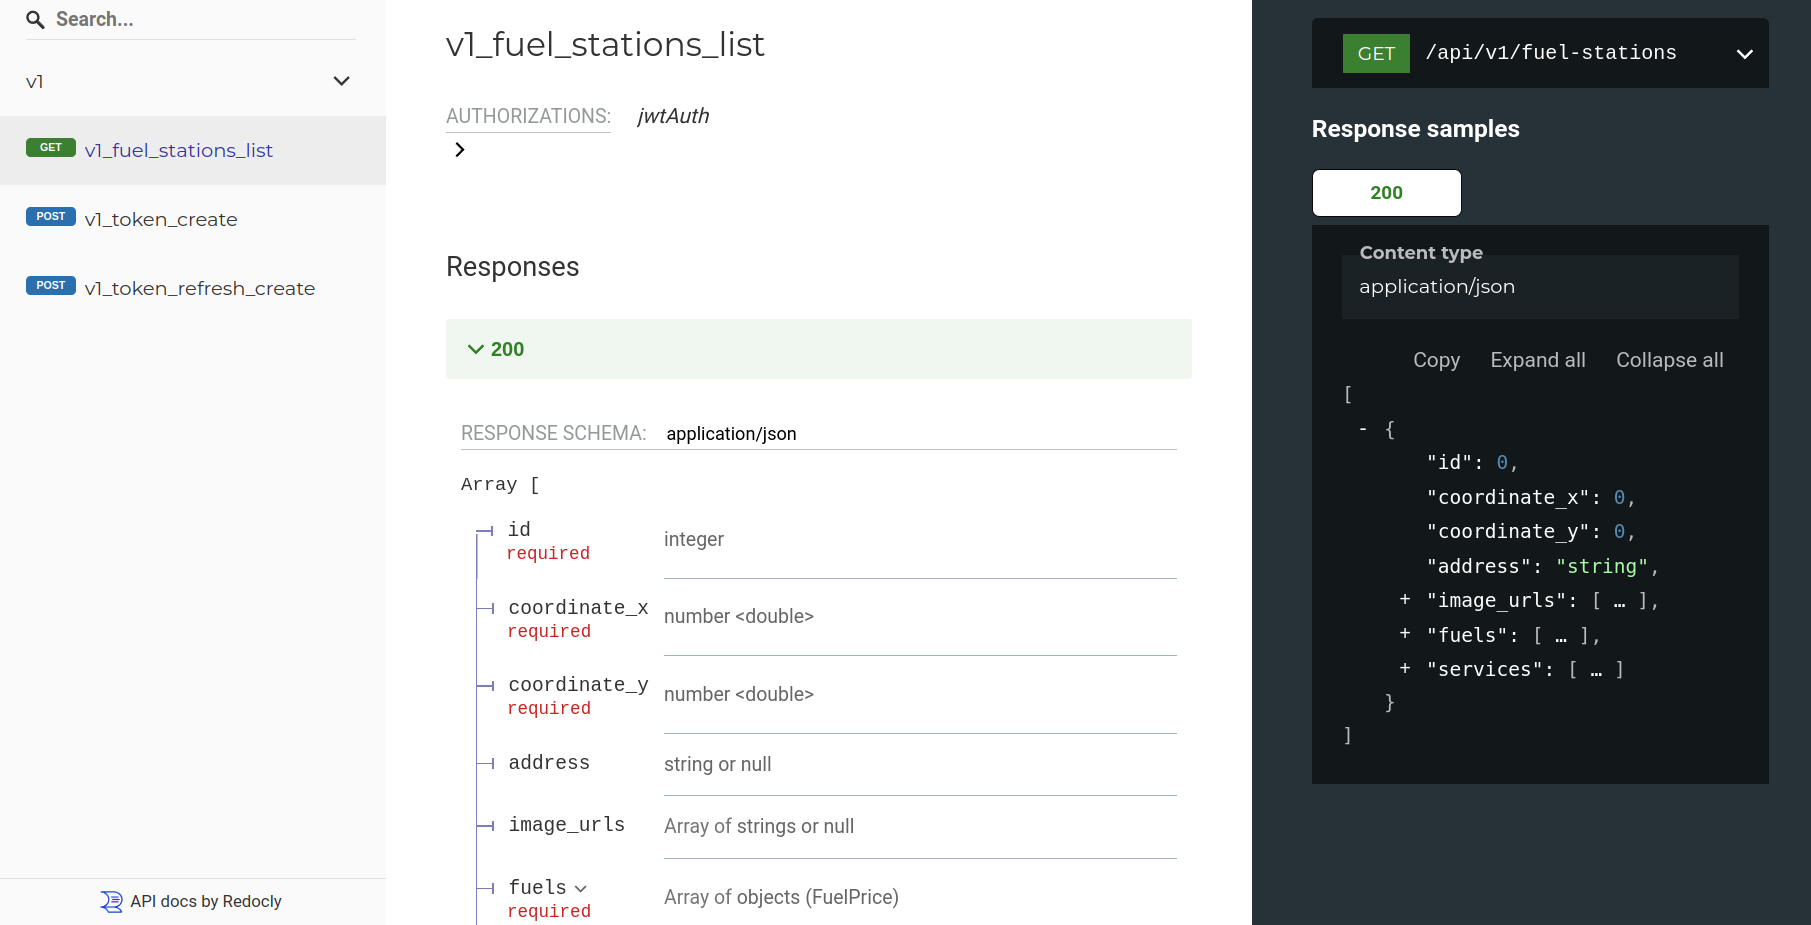
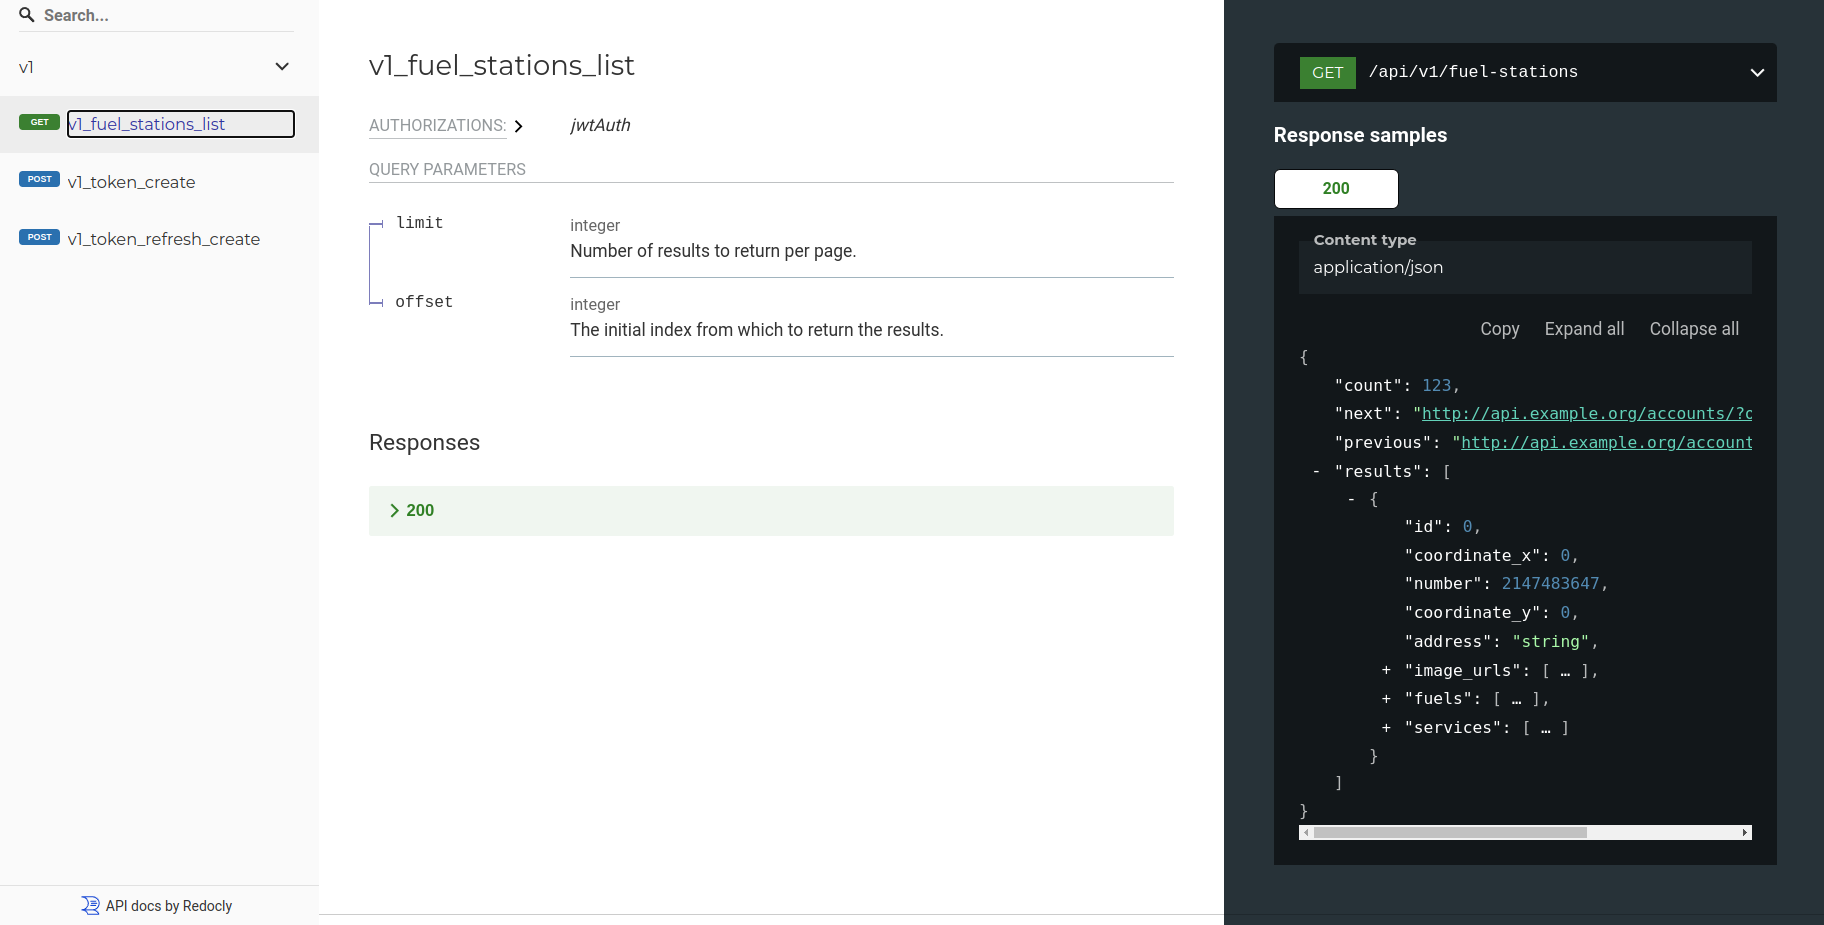
Добави поле Номер в сериализатор, обновил схему API и скриншот схемы API

diff --git a/task3/server/server/apps/core/serializers.py b/task3/server/server/apps/core/serializers.py
@@ -29,4 +29,4 @@ class FuelStationSerializer(serializers.ModelSerializer):
 
     class Meta:
         model = FuelStation
-        fields = ["id", "coordinate_x", "coordinate_y", "address", "image_urls", "fuels", "services"]
+        fields = ["id", "coordinate_x", "coordinate_y", "number", "address", "image_urls", "fuels", "services"]
